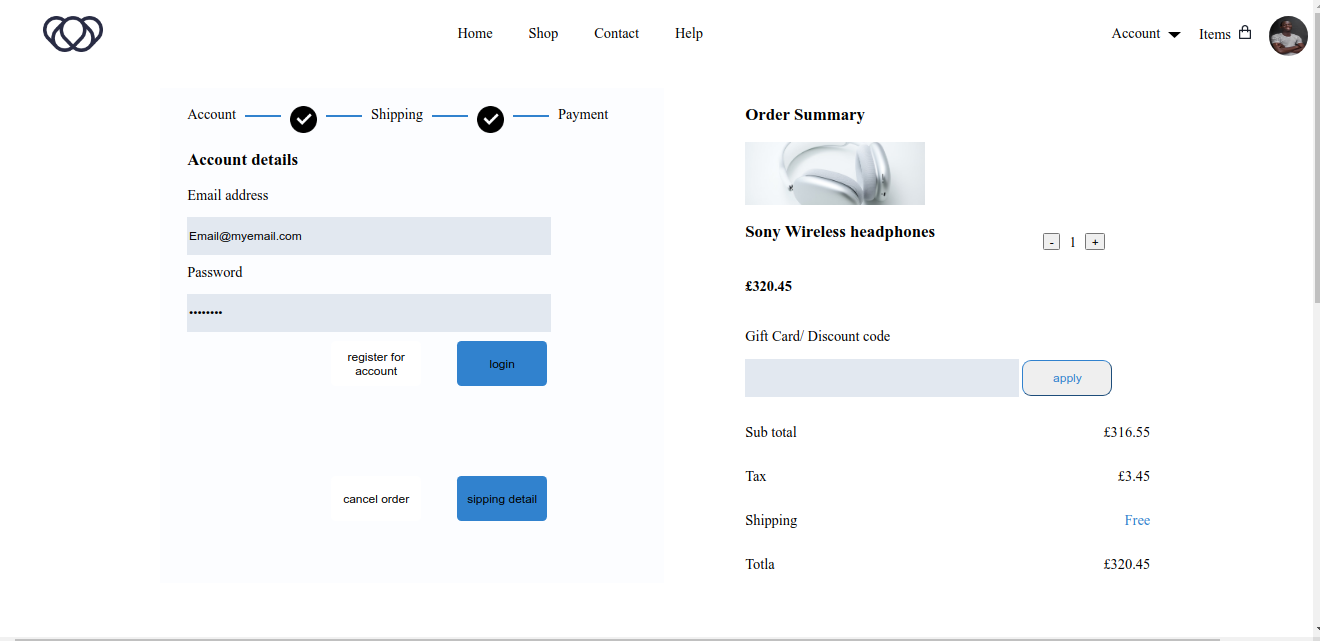
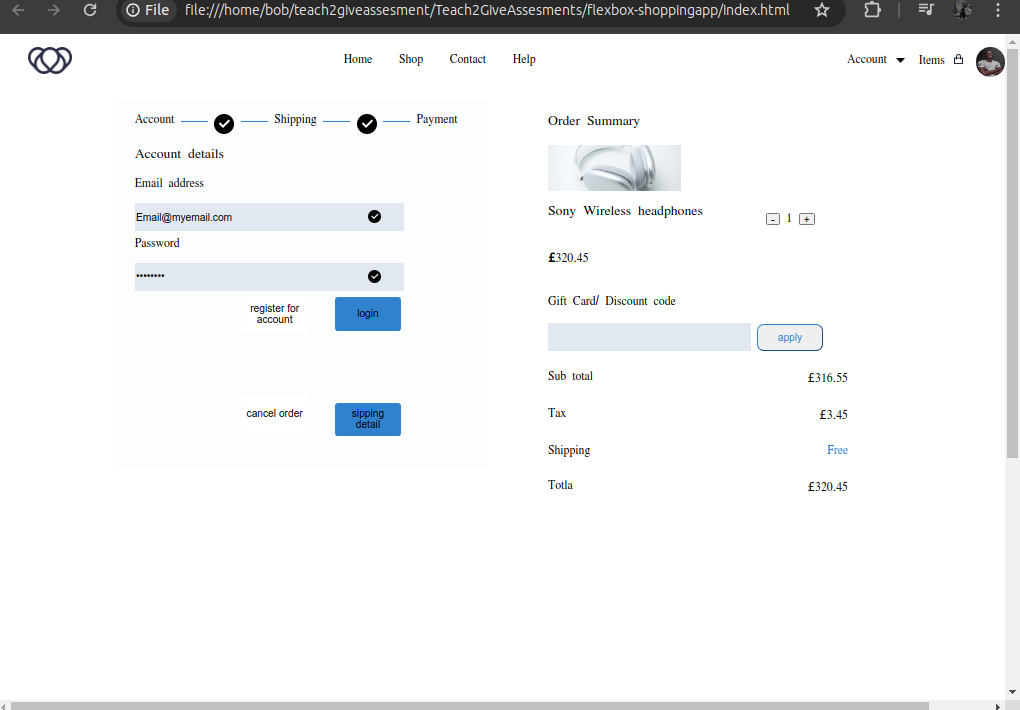
new

diff --git a/flexbox-shoppingapp/css/index.css b/flexbox-shoppingapp/css/index.css
@@ -141,7 +141,7 @@ form{
 }
 .input{
     background-color:#E2E8F0;
-    background-image: url('/assets/tick.png');
+    background-image: url('../assets/tick.png');
     height: 40px;
     width: 400px;
     background-repeat: no-repeat;
